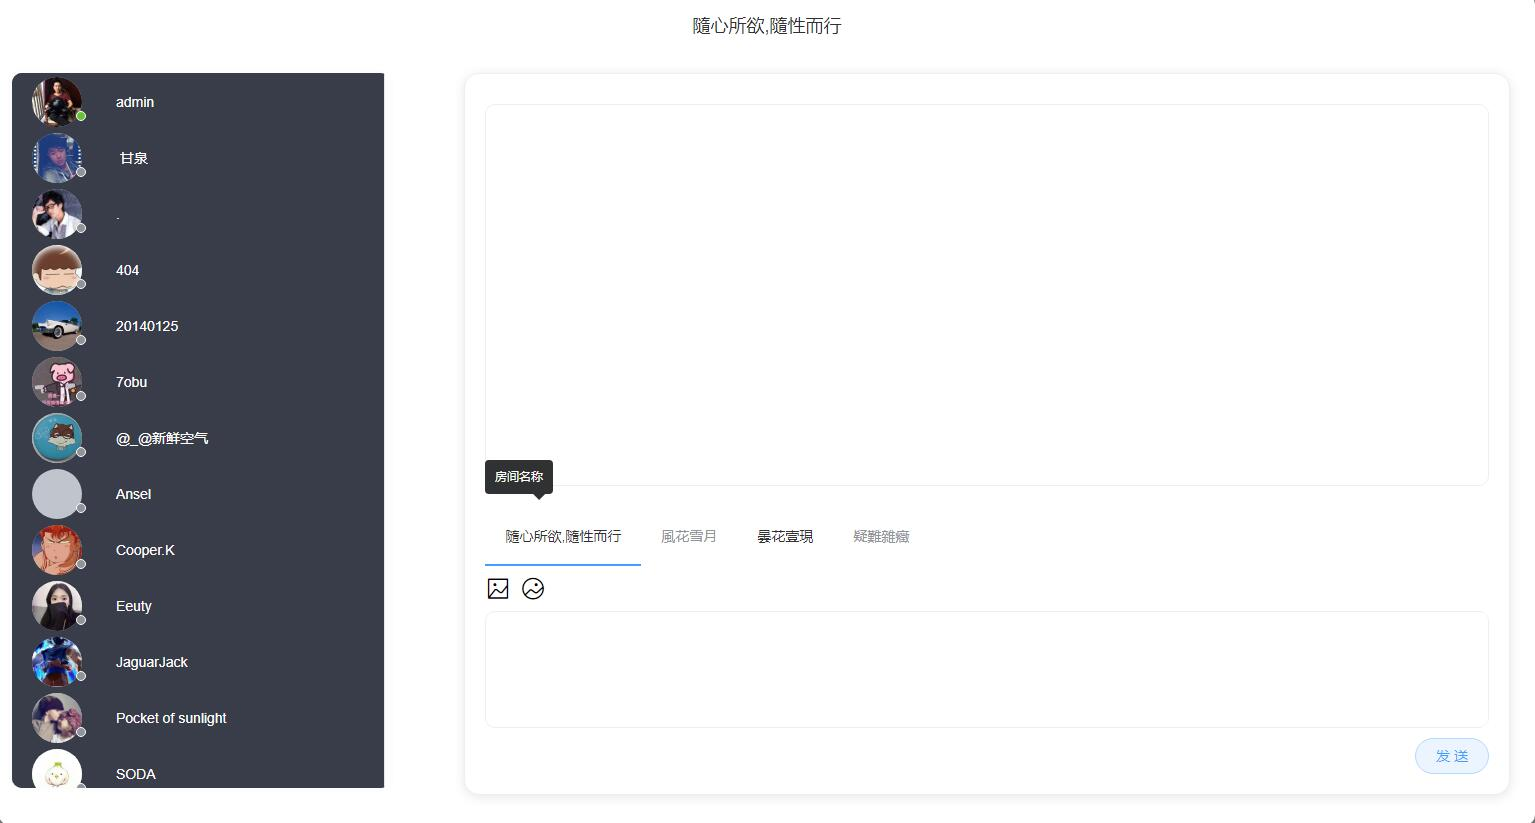
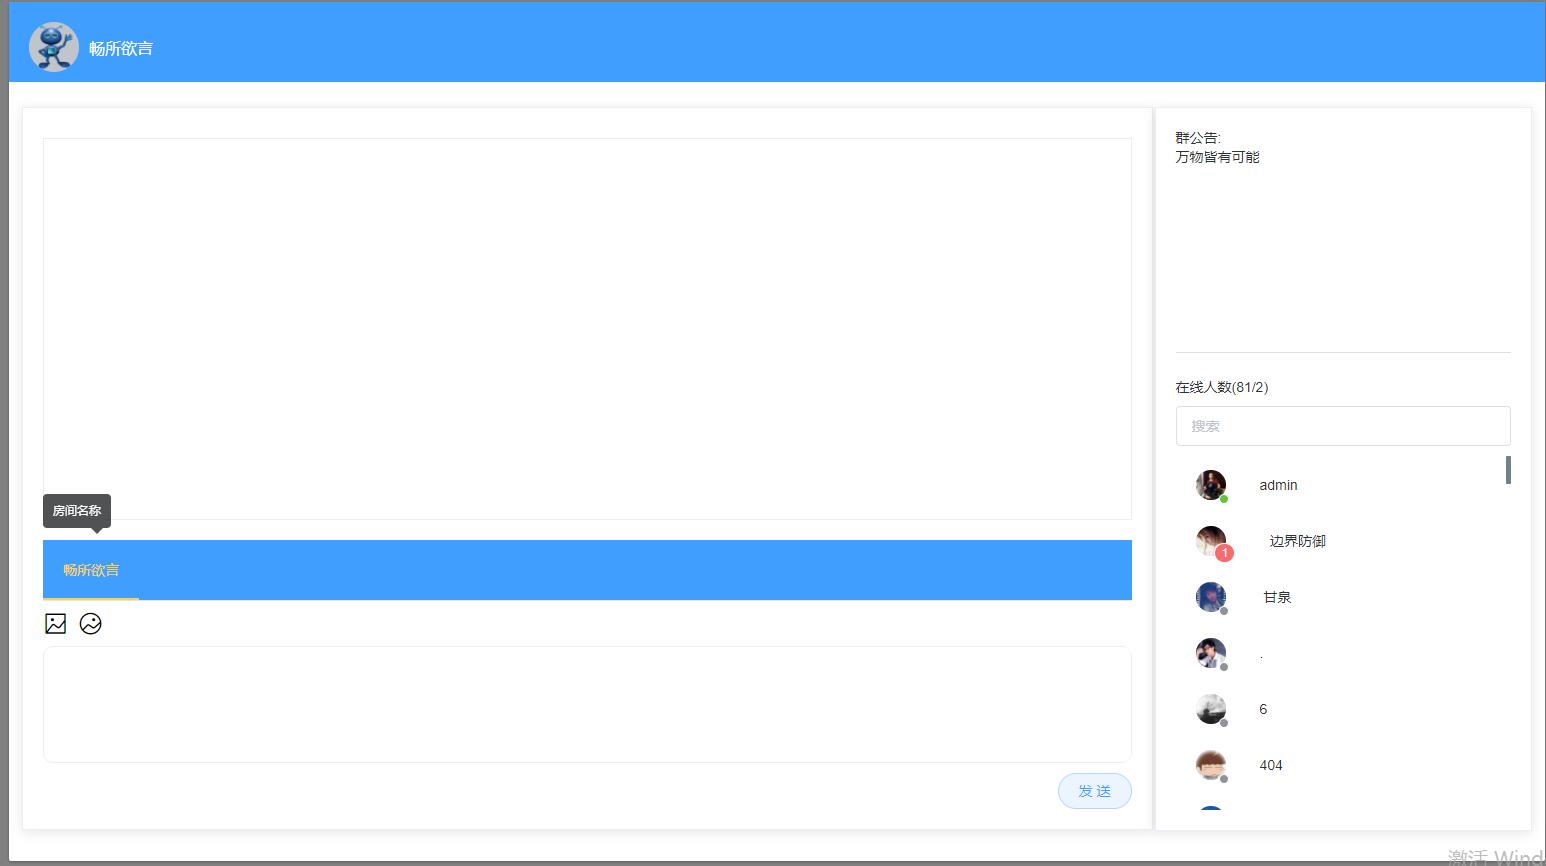
优化聊天界面

diff --git a/resources/views/welcome.blade.php b/resources/views/welcome.blade.php
@@ -1,1 +1,1 @@
-<!DOCTYPE html><html lang=zh><head><meta charset=utf-8><link rel="shortcut icon" href=favicon.ico><meta name=viewport content="width=device-width,initial-scale=1"><title>vue-app</title><link href=/static/css/app.c4218c9493b61cde8660da800fb159bb.css rel=stylesheet></head><body><div id=app></div><div id=cc-myssl-id style="position: fixed;right: 0;bottom: 0;width: 65px;height: 65px;z-index: 99;"><a href="https://myssl.com/www.fanglonger.com?from=mysslid"><img src=https://static.myssl.com/res/images/myssl-id.png alt="" style=width:100%;height:100%></a></div><script type=text/javascript src=/static/js/manifest.2ae2e69a05c33dfc65f8.js></script><script type=text/javascript src=/static/js/vendor.8e2f26ffb009903386cd.js></script><script type=text/javascript src=/static/js/app.ba779d2f8173df5a2d1b.js></script></body></html>
+<!DOCTYPE html><html lang=zh><head><meta charset=utf-8><link rel="shortcut icon" href=favicon.ico><meta name=viewport content="width=device-width,initial-scale=1"><title>vue-app</title><link href=/static/css/app.6eddab79fdb944ccbafdc1098eab625c.css rel=stylesheet></head><body><div id=app></div><div id=cc-myssl-id style="position: fixed;right: 0;bottom: 0;width: 65px;height: 65px;z-index: 99;"><a href="https://myssl.com/www.fanglonger.com?from=mysslid"><img src=https://static.myssl.com/res/images/myssl-id.png alt="" style=width:100%;height:100%></a></div><script type=text/javascript src=/static/js/manifest.2ae2e69a05c33dfc65f8.js></script><script type=text/javascript src=/static/js/vendor.62f1dd9151bb9c7d9975.js></script><script type=text/javascript src=/static/js/app.a3ac121963a208023d73.js></script></body></html>
